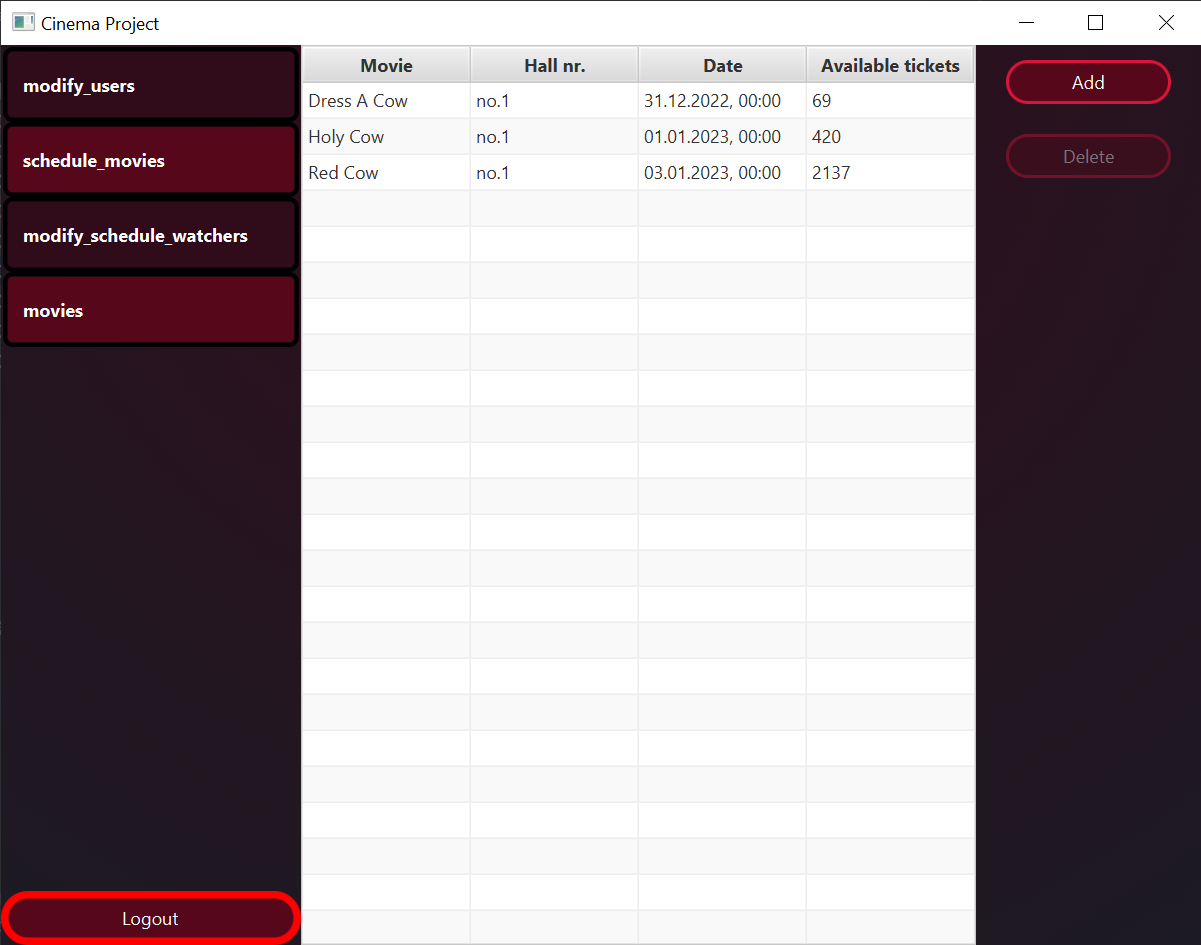
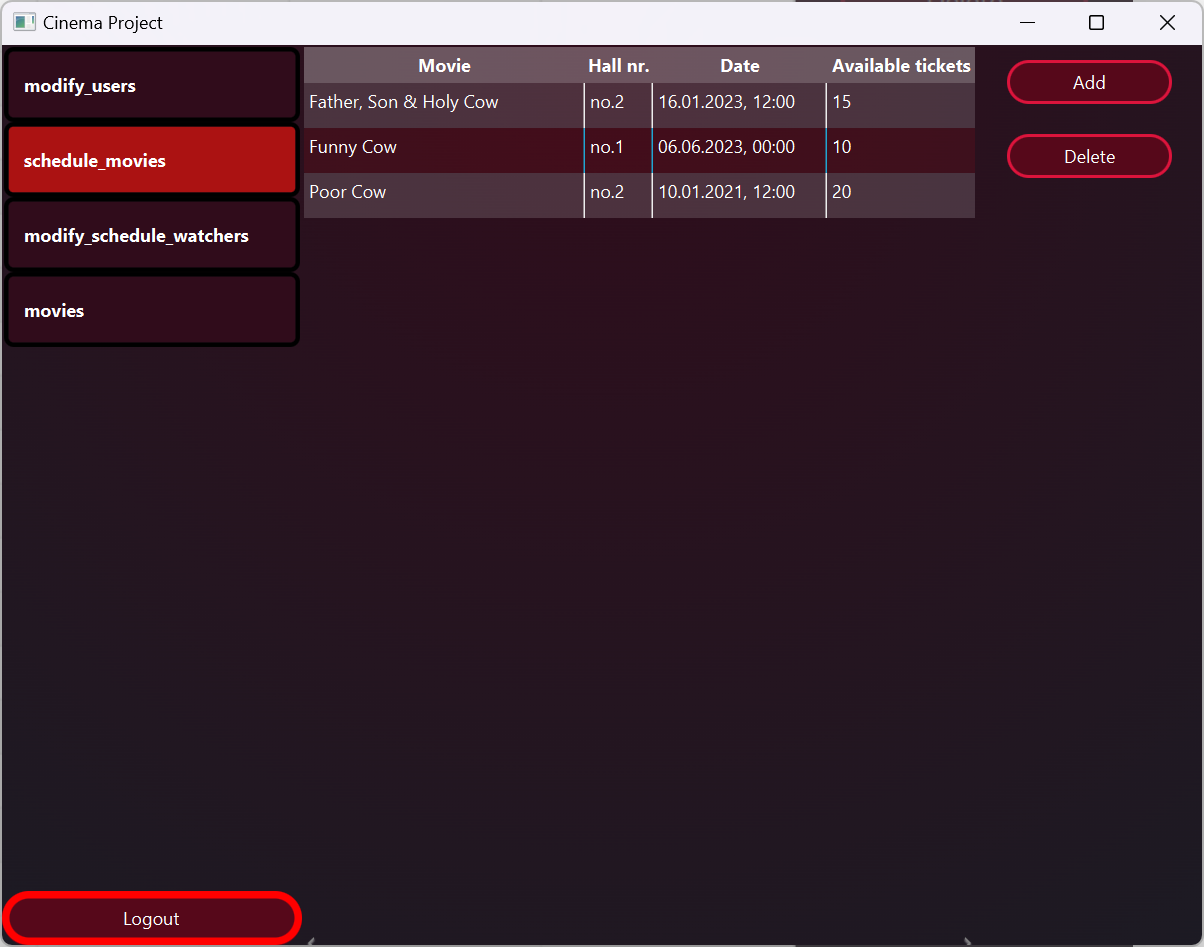
buying tickets

diff --git a/docs.md b/docs.md
@@ -96,7 +96,9 @@ zalogowanie jest **admin@admin.pl**.
 
 Po zalogowaniu się do aplikacji zostajemy przekierowani do głównego widoku aplikacji.
 
+<div align="center">
 <img src="images/main.png" alt="drawing" width="600"/>
+</div>
 
 Po lewej strony znajduje się panel z kilkoma zakładkami, dostepnymi w zależności od uprawnień użytkownika.
 
@@ -104,11 +106,15 @@ Po lewej strony znajduje się panel z kilkoma zakładkami, dostepnymi w zależno
 
 Po kliknięciu pierwszej zakładki zostaje nam wyświetlona lista wszystkich użytkowników z bazy.
 
-![img.png](images/users.png)
+<div align="center">
+<img alt="img.png" src="images/users.png"/>
+</div>
 
 Każdy z rekordów można edytować z poziomu klienta, zmiany pojawią się natychmiast w bazie danych.
 
-![img.png](images/edit_users.png)
+<div align="center">
+<img alt="img.png" src="images/edit_users.png"/>
+</div>
 
 Z prawej strony znajdują się również przyciski, umożliwiające dodanie i usuwanie użytkowników.
 
@@ -119,14 +125,18 @@ Nie dodawaliśmy więc dodatkowego widoku z możliwością dodania filmu.
 Posiadamy za to osobny skrypt w jęzku Kotlin, który ściąga filmy z bazy [The Open Movie Database](https://www.omdbapi.com/).
 Jest to raczej próba skupienia się na ważniejszych aspektach aplikacji takich jak kupowanie biletów oraz zarządzanie seansami niż stworzenie kolejnego przysłowiowego CRUD-a.
 
-Pozostawiliśmy możliwość filtrowania i usuwania filmów w przeznaczonej do tego zakładce.
+Pozostawiliśmy możliwość, paginacji i usuwania filmów w przeznaczonej do tego zakładce.
 
-![img.png](images/movies.png)
+<div align="center">
+<img alt="img.png" src="images/movies.png"/>
+</div>
 
-Pokazujemy tam 50 pierwszych filmów z wyszukania po tytule filmu oraz po minimalnej długości filmu.
+Pokazujemy tam około 1300 filmów z czego na każdą stronę przypada 10, wyszukania po tytule filmu ,minimalnej oraz maksymalnej długości filmu.
 Po kliknięciu w dany film możemy zobaczyć więcej szczegółów o nim, lub usunąć go z bazy danych.
 
-![img.png](images/movie_details.png)
+<div align="center">
+<img alt="img.png" src="images/movie_details.png"/>
+</div>
 
 Pomimo możliwości asynchronicznych zapytań oferowanych przez R2DBC,
 natura Javafx powodowała, że aplikacja czasem dostaje lekkiego opoznienia,
@@ -137,18 +147,21 @@ gdy ściąga zdjęcia filmów (w `Platform.runLater(...)`).
 Ze względu na zmianę koncepcji w tym miejscu, sale ładowane przy starcie aplikacji zamiast trzymane w bazie danych, utworzyliśmy usunęliśmy wymagania `foreign key` w bazie.
 Po tej zmianie dodaliśmy implementację Dao z salami jako In Memory Database, gdzie trzymamy mapę (Id, Sala) sal i wykonujemy na niej zapytania.
 
-![img.png](images/halls.png)
+<div align="center">
+<img alt="img.png" src="images/halls.png"/>
+</div>
 
 ### Zarządzanie seansami
 
 Mając bazę filmów oraz wczytane sale jesteśmy w stanie zaplanować
 seans kinowy. Odbywa się to przez mechanizm analogiczny do
-dodawania użytkowników, ztymże sprawdzanych jest więcej warunków (czy w planowanym terminie
+dodawania użytkowników, z tymże sprawdzanych jest więcej warunków (czy w planowanym terminie
 dana sala nie jest już zajęta, czy planujemy seans w przyszłości).
 
-![img.png](images/schedule.png)
-
-![img.png](images/schedule_warning.png)
+<div align="center">
+<img alt="img.png" src="images/schedule.png"/>
+<img alt="img.png" src="images/schedule_warning.png"/>
+</div>
 
 ### Obsługa uprawnień
 
@@ -157,3 +170,17 @@ Podczas pojedyńczych operacji nie sprawdzamy dodatkowo uprawnień.
 Autoryzacja do zasobów jest ustalana przy logowaniu użytkownika i nie jest zmieniana w trakcie działania programu.
 
 ### Zarządzanie sprzedażą biletów
+
+Mając do dyspozycji ustalone seansy filmowe, jesteśmy w stanie zakupić bilety.
+
+<div align="center">
+<img alt="img.png" src="images/modify_schedule_watchers_page.png"/>
+</div>
+
+Każdy z rekordów po kliknięciu, prowadzi nas do osobnego widoku przedstawiającego szczegółowe informacje, wraz z możliwością zakupu biletów na film.
+
+<div align="center">
+<img alt="img.png" src="images/modify_schedule_watchers_card.png"/>
+</div>
+
+Pole z liczbą zakupionych biletów jest ograniczone do wpisania liczby z przedziału 0 do maksymalnej liczbą biletów dostępnych w danej chwili.
